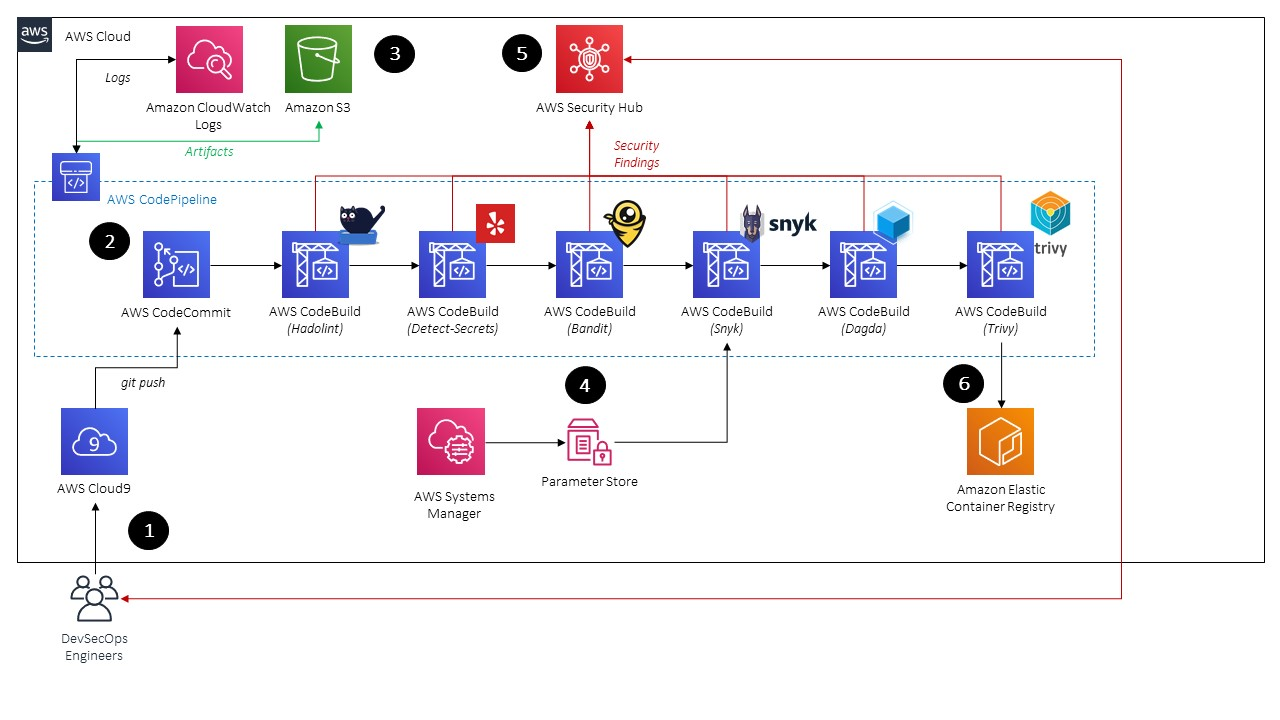
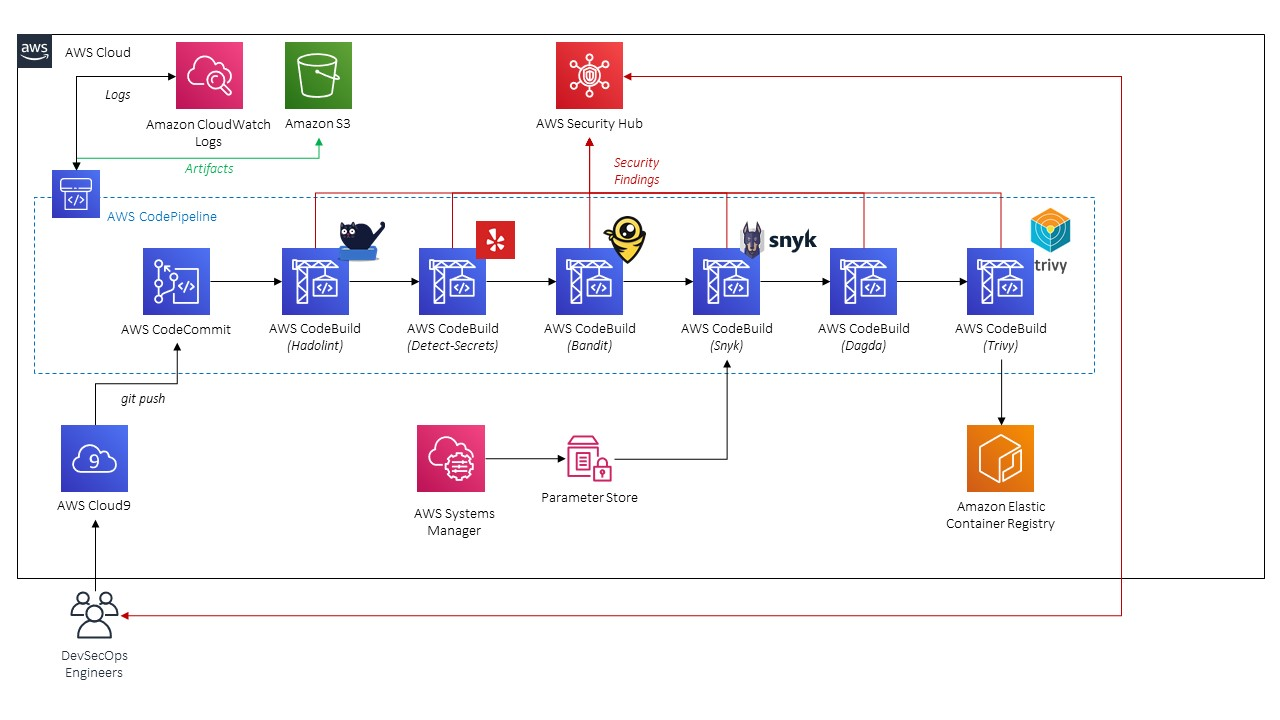
Adding and editing architectrue

Changed region(s): [[0.0312, 0.0306, 0.8438, 0.7639], [0.0312, 0.7944, 0.875, 0.9472], [0.0, 0.0, 0.0938, 0.1222]]

diff --git a/README.md b/README.md
@@ -10,7 +10,7 @@ TODO
 The AWS-DevSecOps-Factory is a consolidation of a variety of work I had done to create DevSecOps pipelines using AWS native tools. In reality these are more like automated AppSec pipelines that you would bolt on to the start of your release train. That approach will be the least maintainence and ideally you would commit artifacts supported by the pipeline to be scanned before creating a release candidate from them. This repository will continually grow (hopefully through outside contributions) and is focused on using open-source security tools to deliver functionality. At times I will use commercial or "freemium" (commercial tools with a functional free tier). Being an AWS solutions library all security-related findings from the various tools will be parsed and written to Security Hub to tie your SecOps people and processes closer to your DevSecOps development groups.
 
 ## How to use this repository
-Each available pipeline will have an architecture diagram with high-level steps / actions, at the bottom of the steps a link to the directory containing the code is provided as a hyperlink. You can deploy the solution with CloudFormation after uploading a ZIP archive to an S3 bucket, or, you can go into the `/src/` subdirectory of each solution to view the raw files (example artifacts, buildspec and Python scripts).
+Each available pipeline will have an architecture diagram and a link to the directory containing the code is provided as a hyperlink. The subdirectories will have a more detailed walkthrough of steps, prerequisites and deployment considerations. You can deploy the solution with CloudFormation after uploading a ZIP archive to an S3 bucket, or, you can go into the `/src/` subdirectory of each solution to view the raw files (example artifacts, buildspec and Python scripts).
 
 ## Capability set (this will be subject to change)
 
@@ -31,43 +31,31 @@ Each available pipeline will have an architecture diagram with high-level steps 
 ## Pipelines
 
 ### CloudFormation DevSecOps Pipeline
-Architecture
+![CloudFormation DevSecOps Architecture](/cloudformation-pipeline/cloudformation-pipeline-architecture.jpg)
 
 [**Start Here**](/cloudformation-pipeline)
 
 ### Terraform DevSecOps Pipeline
-Architecture
+![Terraform DevSecOps Architecture](/terraform-pipeline/terraform-pipeline-architecture.jpg)
 
 [**Start Here**](/terraform-pipeline)
 
 ### Docker image DevSecOps Pipeline (using Whitesource)
 ![Docker-DevSecOps-WSS](/docker-pipeline-wss/docker-pipeline-wss-architecture.jpg)
-1. DevSecOps engineers use AWS Cloud9 as their Integrated Development Environment (IDE), here they can develop code, test locally, push commits, share access and benefit from security controls provided by VPCs and IAM
-1. Upon commits to the master branch, CodePipeline automatically starts CI tests via different CodeBuild projects. We will use Hadolint, Detect-Secrets, Bandit, Snyk and Trivy to perform different security assessments that will be explained later
-1. All logs from CodePipeline and CodeBuild are pushed to CloudWatch Logs (and optionally S3), to offload the need to continuously clone our source repository, artifacts are backed up to S3 where they are access controlled and encrypted
-4. To promote code reuse and secure sensitive details like API keys and webhook tokens they will be injected into our build environment variables using AWS Systems Manager Parameter Store
-5. All security assessments that fail will fail their build stage, which stops the pipeline, and findings from which will be sent to AWS Security Hub to be aggregated and have actions taken on them
-6. After remediating various findings our Flash Docker image is pushed to Amazon Elastic Container Registry (ECR) where it can be used on a Fargate or EKS cluster
 
 [**Start Here**](/docker-pipeline-wss)
 
 ### Docker image DevSecOps Pipeline (using Snyk)
 ![Docker-DevSecOps-WSS](/docker-pipeline-snyk/docker-pipeline-snyk-architecture.jpg)
-1. DevSecOps engineers use AWS Cloud9 as their Integrated Development Environment (IDE), here they can develop code, test locally, push commits, share access and benefit from security controls provided by VPCs and IAM
-1. Upon commits to the master branch, CodePipeline automatically starts CI tests via different CodeBuild projects. We will use Hadolint, Detect-Secrets, Bandit, Snyk and Trivy to perform different security assessments that will be explained later
-1. All logs from CodePipeline and CodeBuild are pushed to CloudWatch Logs (and optionally S3), to offload the need to continuously clone our source repository, artifacts are backed up to S3 where they are access controlled and encrypted
-4. To promote code reuse and secure sensitive details like API keys and webhook tokens they will be injected into our build environment variables using AWS Systems Manager Parameter Store
-5. All security assessments that fail will fail their build stage, which stops the pipeline, and findings from which will be sent to AWS Security Hub to be aggregated and have actions taken on them
-6. After remediating various findings our Flash Docker image is pushed to Amazon Elastic Container Registry (ECR) where it can be used on a Fargate or EKS cluster
 
 [**Start Here**](/docker-pipeline-snyk)
 
 ### Kubernetes deployment Pipeline
-Architecture
+Architecture TODO
 
 [**Start Here**](/k8s-pipeline)
 
 ### Docker + Kubernetes 2-stager Pipeline
-Architecture
+Architecture TODO
 
 [**Start Here**](/docker-k8s-double-decker)
